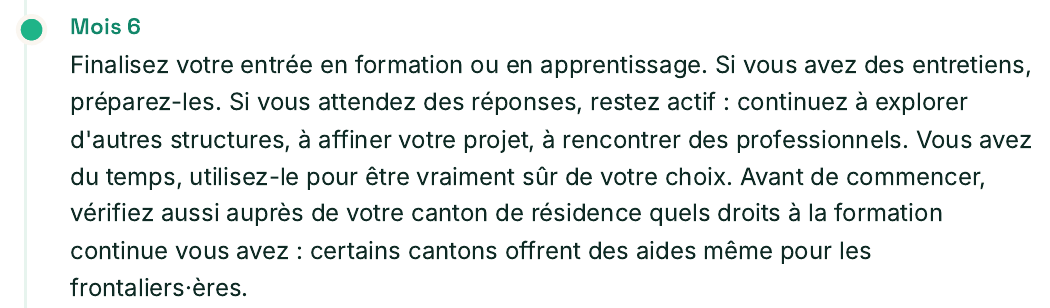
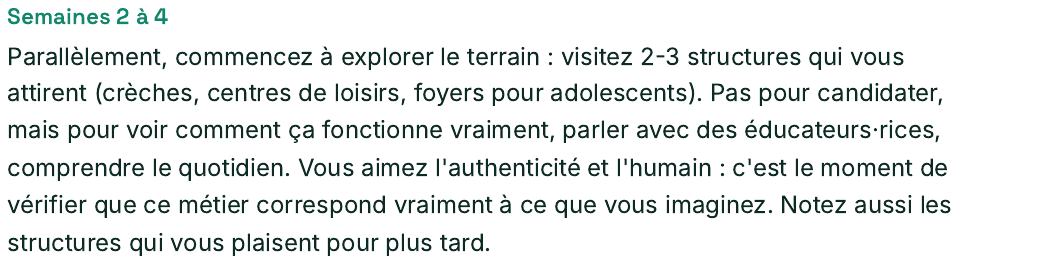
maj: site Cynth.IA

diff --git a/cynthia_v2.html b/cynthia_v2.html
@@ -2421,34 +2421,67 @@ textarea.chat-input{
          2 images ajoutées dans la colonne de gauche (sous le frein) :
          rapport_extrait_moteurs.png (section « Vos moteurs de motivation »,
          page 5) et rapport_extrait_plan.png (« Mois 6 » du plan semaine par
-         semaine, page 13 — dernier jalon du plan, celui qui se rapproche le
-         plus de ce que Faouzi demandait en évoquant un horizon lointain).
-         Mêmes garanties que les autres : aucune mention de prénom, référence,
-         canton ni permis dans ces deux zones (vérifié à l'œil avant
-         recadrage, bornes calculées par script sur la couleur des puces et
-         des pastilles, pas à l'estimation). Compressées par la même
-         quantification de palette (48 couleurs) : 15,9 Ko et 17,6 Ko. -->
+         semaine, page 13, dernier jalon du plan). Mêmes garanties que les
+         autres : aucune mention de prénom, référence, canton ni permis dans
+         ces deux zones (vérifié à l'œil avant recadrage, bornes calculées
+         par script sur la couleur des puces et des pastilles, pas à
+         l'estimation). Compressées par la même quantification de palette
+         (48 couleurs) : 15,9 Ko et 16,5 Ko.
+
+         ── CORRIGÉ le même jour, 3 retours de Faouzi sur le rendu réel iPhone ──
+         (1) 2 tirets cadratins (« — ») s'étaient glissés dans les légendes et
+         le alt visibles (règle du projet : jamais de tiret cadratin, « fait
+         IA »). Retirés partout dans ce bloc, pas seulement les 2 signalés.
+         (2) « la découpe, on voit que c'est pas propre » : le recadrage de
+         rapport_extrait_plan.png incluait, collée au bord gauche, la frise
+         verticale du plan (le trait qui relie les jalons sur la page source)
+         hors contexte, un trait qui ne mène nulle part, repéré à l'œil sur la
+         capture envoyée par Faouzi ET confirmé par script (colonnes de pixels
+         x=20-42, couleur crème ~(250,246,240), continue sur toute la hauteur
+         du recadrage : ni la pastille verte ni la frise n'ont de sens seules).
+         Méthode de recadrage revue pour toute future capture de ce PDF :
+         x0 déplacé après le texte du titre (jamais après le début de la
+         pastille/frise), largeur retombant EXACTEMENT sur celle des autres
+         images de la même colonne (1045px, même DPI de rendu 150) pour que
+         le texte garde la même échelle une fois affiché à la même largeur CSS.
+         (3) « le retour tu met le mois 1 » : demande de remplacer le contenu
+         « Mois 6 » (dernier jalon, trop lointain) par un jalon proche du
+         début du plan. Aucun bloc n'est littéralement appelé « Mois 1 » sur
+         la page source (jalons réels : Cette semaine / Semaines 2 à 4 /
+         Mois 2 / Mois 3 / Mois 4 à 5 / Mois 6) — question posée à Faouzi,
+         resté en attente. Choix fait entre-temps, à sa demande explicite de
+         juste avancer : PAS « Cette semaine » (mentionne le permis G et le
+         statut frontalier·ère de la personne — plus sensible que les autres
+         extraits déjà anonymisés, et aucun point de coupure propre n'existe
+         dans son paragraphe avant cette phrase, ce qui aurait recréé le même
+         défaut de découpe qu'on vient de corriger) → retenu « Semaines 2 à
+         4 » : 2e jalon réel du plan, encore très proche dans le temps
+         (explorer le terrain, visiter des structures, parler à des
+         professionnels), paragraphe autonome et complet, sans canton/permis/
+         référence. Cohérent avec l'objectif dit par Faouzi : une personne qui
+         lit ce plan concret doit se dire « moi aussi je veux savoir » ce que
+         serait SON premier mois, pas juste le dernier jalon dans 6 mois. -->
     <div class="lp-rex lp-rv">
-      <div class="lp-rex-tag">Un vrai rapport généré par Cynthia — prénom retiré pour préserver son anonymat</div>
+      <div class="lp-rex-tag">Un vrai rapport généré par Cynthia, prénom retiré pour préserver son anonymat</div>
       <div class="lp-rex-imgs">
         <div class="lp-rex-col">
           <div class="lp-rex-imgcard">
             <img src="rapport_extrait_frein.png" alt="Extrait réel du rapport Cynth.IA : l'encadré « Votre frein, et ce qu'il révèle vraiment », qui recadre une insécurité (l'âge, le manque de confiance) en ressource réelle, à partir des propres mots de la personne." loading="lazy">
-            <p>Un frein qu'elle nomme et retourne — pas une liste de qualités génériques.</p>
+            <p>Un frein qu'elle nomme et retourne, pas une liste de qualités génériques.</p>
           </div>
           <div class="lp-rex-imgcard">
-            <img src="rapport_extrait_moteurs.png" alt="Extrait réel du rapport Cynth.IA : « Vos moteurs de motivation » — accompagner et aider les gens à évoluer, l'authenticité et l'entraide, voir le potentiel chez les autres — tiré directement de ses propres mots en entretien." loading="lazy">
+            <img src="rapport_extrait_moteurs.png" alt="Extrait réel du rapport Cynth.IA : « Vos moteurs de motivation », tiré directement de ses propres mots en entretien : accompagner et aider les gens à évoluer, l'authenticité et l'entraide, voir le potentiel chez les autres." loading="lazy">
             <p>Ses propres mots, reliés à ce qui la fait vraiment avancer.</p>
           </div>
           <div class="lp-rex-imgcard">
-            <img src="rapport_extrait_plan.png" alt="Extrait réel du rapport Cynth.IA : « Mois 6 » du plan semaine par semaine — finaliser l'entrée en formation ou en apprentissage, vérifier les droits cantonaux à la formation continue." loading="lazy">
-            <p>Un plan daté, jusqu'au dernier jalon — pas juste un premier pas.</p>
+            <img src="rapport_extrait_plan.png" alt="Extrait réel du rapport Cynth.IA : « Semaines 2 à 4 » du plan semaine par semaine, pour explorer le terrain, visiter des structures et parler avec des professionnels du métier visé." loading="lazy">
+            <p>Un plan concret dès le premier mois, pas juste une idée dans six mois.</p>
           </div>
         </div>
         <div class="lp-rex-col">
           <div class="lp-rex-imgcard">
             <img src="rapport_extrait_metier.png" alt="Extrait réel du rapport Cynth.IA : fiche métier Éducateur·trice de l'enfance (dipl. ES), 95% d'affinité estimée, CHF ~4 250/mois en début de parcours jusqu'à CHF ~5 000/mois avec l'expérience, formation ES en éducation de l'enfance, financement employeur/bourses cantonales/ORP, premier pas concret de la semaine." loading="lazy">
-            <p>Une fiche métier complète — score, CHF sourcés et datés, formation, financement, premier pas de la semaine.</p>
+            <p>Une fiche métier complète : score, CHF sourcés et datés, formation, financement, premier pas de la semaine.</p>
           </div>
         </div>
       </div>

diff --git a/index.html b/index.html
@@ -2421,34 +2421,67 @@ textarea.chat-input{
          2 images ajoutées dans la colonne de gauche (sous le frein) :
          rapport_extrait_moteurs.png (section « Vos moteurs de motivation »,
          page 5) et rapport_extrait_plan.png (« Mois 6 » du plan semaine par
-         semaine, page 13 — dernier jalon du plan, celui qui se rapproche le
-         plus de ce que Faouzi demandait en évoquant un horizon lointain).
-         Mêmes garanties que les autres : aucune mention de prénom, référence,
-         canton ni permis dans ces deux zones (vérifié à l'œil avant
-         recadrage, bornes calculées par script sur la couleur des puces et
-         des pastilles, pas à l'estimation). Compressées par la même
-         quantification de palette (48 couleurs) : 15,9 Ko et 17,6 Ko. -->
+         semaine, page 13, dernier jalon du plan). Mêmes garanties que les
+         autres : aucune mention de prénom, référence, canton ni permis dans
+         ces deux zones (vérifié à l'œil avant recadrage, bornes calculées
+         par script sur la couleur des puces et des pastilles, pas à
+         l'estimation). Compressées par la même quantification de palette
+         (48 couleurs) : 15,9 Ko et 16,5 Ko.
+
+         ── CORRIGÉ le même jour, 3 retours de Faouzi sur le rendu réel iPhone ──
+         (1) 2 tirets cadratins (« — ») s'étaient glissés dans les légendes et
+         le alt visibles (règle du projet : jamais de tiret cadratin, « fait
+         IA »). Retirés partout dans ce bloc, pas seulement les 2 signalés.
+         (2) « la découpe, on voit que c'est pas propre » : le recadrage de
+         rapport_extrait_plan.png incluait, collée au bord gauche, la frise
+         verticale du plan (le trait qui relie les jalons sur la page source)
+         hors contexte, un trait qui ne mène nulle part, repéré à l'œil sur la
+         capture envoyée par Faouzi ET confirmé par script (colonnes de pixels
+         x=20-42, couleur crème ~(250,246,240), continue sur toute la hauteur
+         du recadrage : ni la pastille verte ni la frise n'ont de sens seules).
+         Méthode de recadrage revue pour toute future capture de ce PDF :
+         x0 déplacé après le texte du titre (jamais après le début de la
+         pastille/frise), largeur retombant EXACTEMENT sur celle des autres
+         images de la même colonne (1045px, même DPI de rendu 150) pour que
+         le texte garde la même échelle une fois affiché à la même largeur CSS.
+         (3) « le retour tu met le mois 1 » : demande de remplacer le contenu
+         « Mois 6 » (dernier jalon, trop lointain) par un jalon proche du
+         début du plan. Aucun bloc n'est littéralement appelé « Mois 1 » sur
+         la page source (jalons réels : Cette semaine / Semaines 2 à 4 /
+         Mois 2 / Mois 3 / Mois 4 à 5 / Mois 6) — question posée à Faouzi,
+         resté en attente. Choix fait entre-temps, à sa demande explicite de
+         juste avancer : PAS « Cette semaine » (mentionne le permis G et le
+         statut frontalier·ère de la personne — plus sensible que les autres
+         extraits déjà anonymisés, et aucun point de coupure propre n'existe
+         dans son paragraphe avant cette phrase, ce qui aurait recréé le même
+         défaut de découpe qu'on vient de corriger) → retenu « Semaines 2 à
+         4 » : 2e jalon réel du plan, encore très proche dans le temps
+         (explorer le terrain, visiter des structures, parler à des
+         professionnels), paragraphe autonome et complet, sans canton/permis/
+         référence. Cohérent avec l'objectif dit par Faouzi : une personne qui
+         lit ce plan concret doit se dire « moi aussi je veux savoir » ce que
+         serait SON premier mois, pas juste le dernier jalon dans 6 mois. -->
     <div class="lp-rex lp-rv">
-      <div class="lp-rex-tag">Un vrai rapport généré par Cynthia — prénom retiré pour préserver son anonymat</div>
+      <div class="lp-rex-tag">Un vrai rapport généré par Cynthia, prénom retiré pour préserver son anonymat</div>
       <div class="lp-rex-imgs">
         <div class="lp-rex-col">
           <div class="lp-rex-imgcard">
             <img src="rapport_extrait_frein.png" alt="Extrait réel du rapport Cynth.IA : l'encadré « Votre frein, et ce qu'il révèle vraiment », qui recadre une insécurité (l'âge, le manque de confiance) en ressource réelle, à partir des propres mots de la personne." loading="lazy">
-            <p>Un frein qu'elle nomme et retourne — pas une liste de qualités génériques.</p>
+            <p>Un frein qu'elle nomme et retourne, pas une liste de qualités génériques.</p>
           </div>
           <div class="lp-rex-imgcard">
-            <img src="rapport_extrait_moteurs.png" alt="Extrait réel du rapport Cynth.IA : « Vos moteurs de motivation » — accompagner et aider les gens à évoluer, l'authenticité et l'entraide, voir le potentiel chez les autres — tiré directement de ses propres mots en entretien." loading="lazy">
+            <img src="rapport_extrait_moteurs.png" alt="Extrait réel du rapport Cynth.IA : « Vos moteurs de motivation », tiré directement de ses propres mots en entretien : accompagner et aider les gens à évoluer, l'authenticité et l'entraide, voir le potentiel chez les autres." loading="lazy">
             <p>Ses propres mots, reliés à ce qui la fait vraiment avancer.</p>
           </div>
           <div class="lp-rex-imgcard">
-            <img src="rapport_extrait_plan.png" alt="Extrait réel du rapport Cynth.IA : « Mois 6 » du plan semaine par semaine — finaliser l'entrée en formation ou en apprentissage, vérifier les droits cantonaux à la formation continue." loading="lazy">
-            <p>Un plan daté, jusqu'au dernier jalon — pas juste un premier pas.</p>
+            <img src="rapport_extrait_plan.png" alt="Extrait réel du rapport Cynth.IA : « Semaines 2 à 4 » du plan semaine par semaine, pour explorer le terrain, visiter des structures et parler avec des professionnels du métier visé." loading="lazy">
+            <p>Un plan concret dès le premier mois, pas juste une idée dans six mois.</p>
           </div>
         </div>
         <div class="lp-rex-col">
           <div class="lp-rex-imgcard">
             <img src="rapport_extrait_metier.png" alt="Extrait réel du rapport Cynth.IA : fiche métier Éducateur·trice de l'enfance (dipl. ES), 95% d'affinité estimée, CHF ~4 250/mois en début de parcours jusqu'à CHF ~5 000/mois avec l'expérience, formation ES en éducation de l'enfance, financement employeur/bourses cantonales/ORP, premier pas concret de la semaine." loading="lazy">
-            <p>Une fiche métier complète — score, CHF sourcés et datés, formation, financement, premier pas de la semaine.</p>
+            <p>Une fiche métier complète : score, CHF sourcés et datés, formation, financement, premier pas de la semaine.</p>
           </div>
         </div>
       </div>
